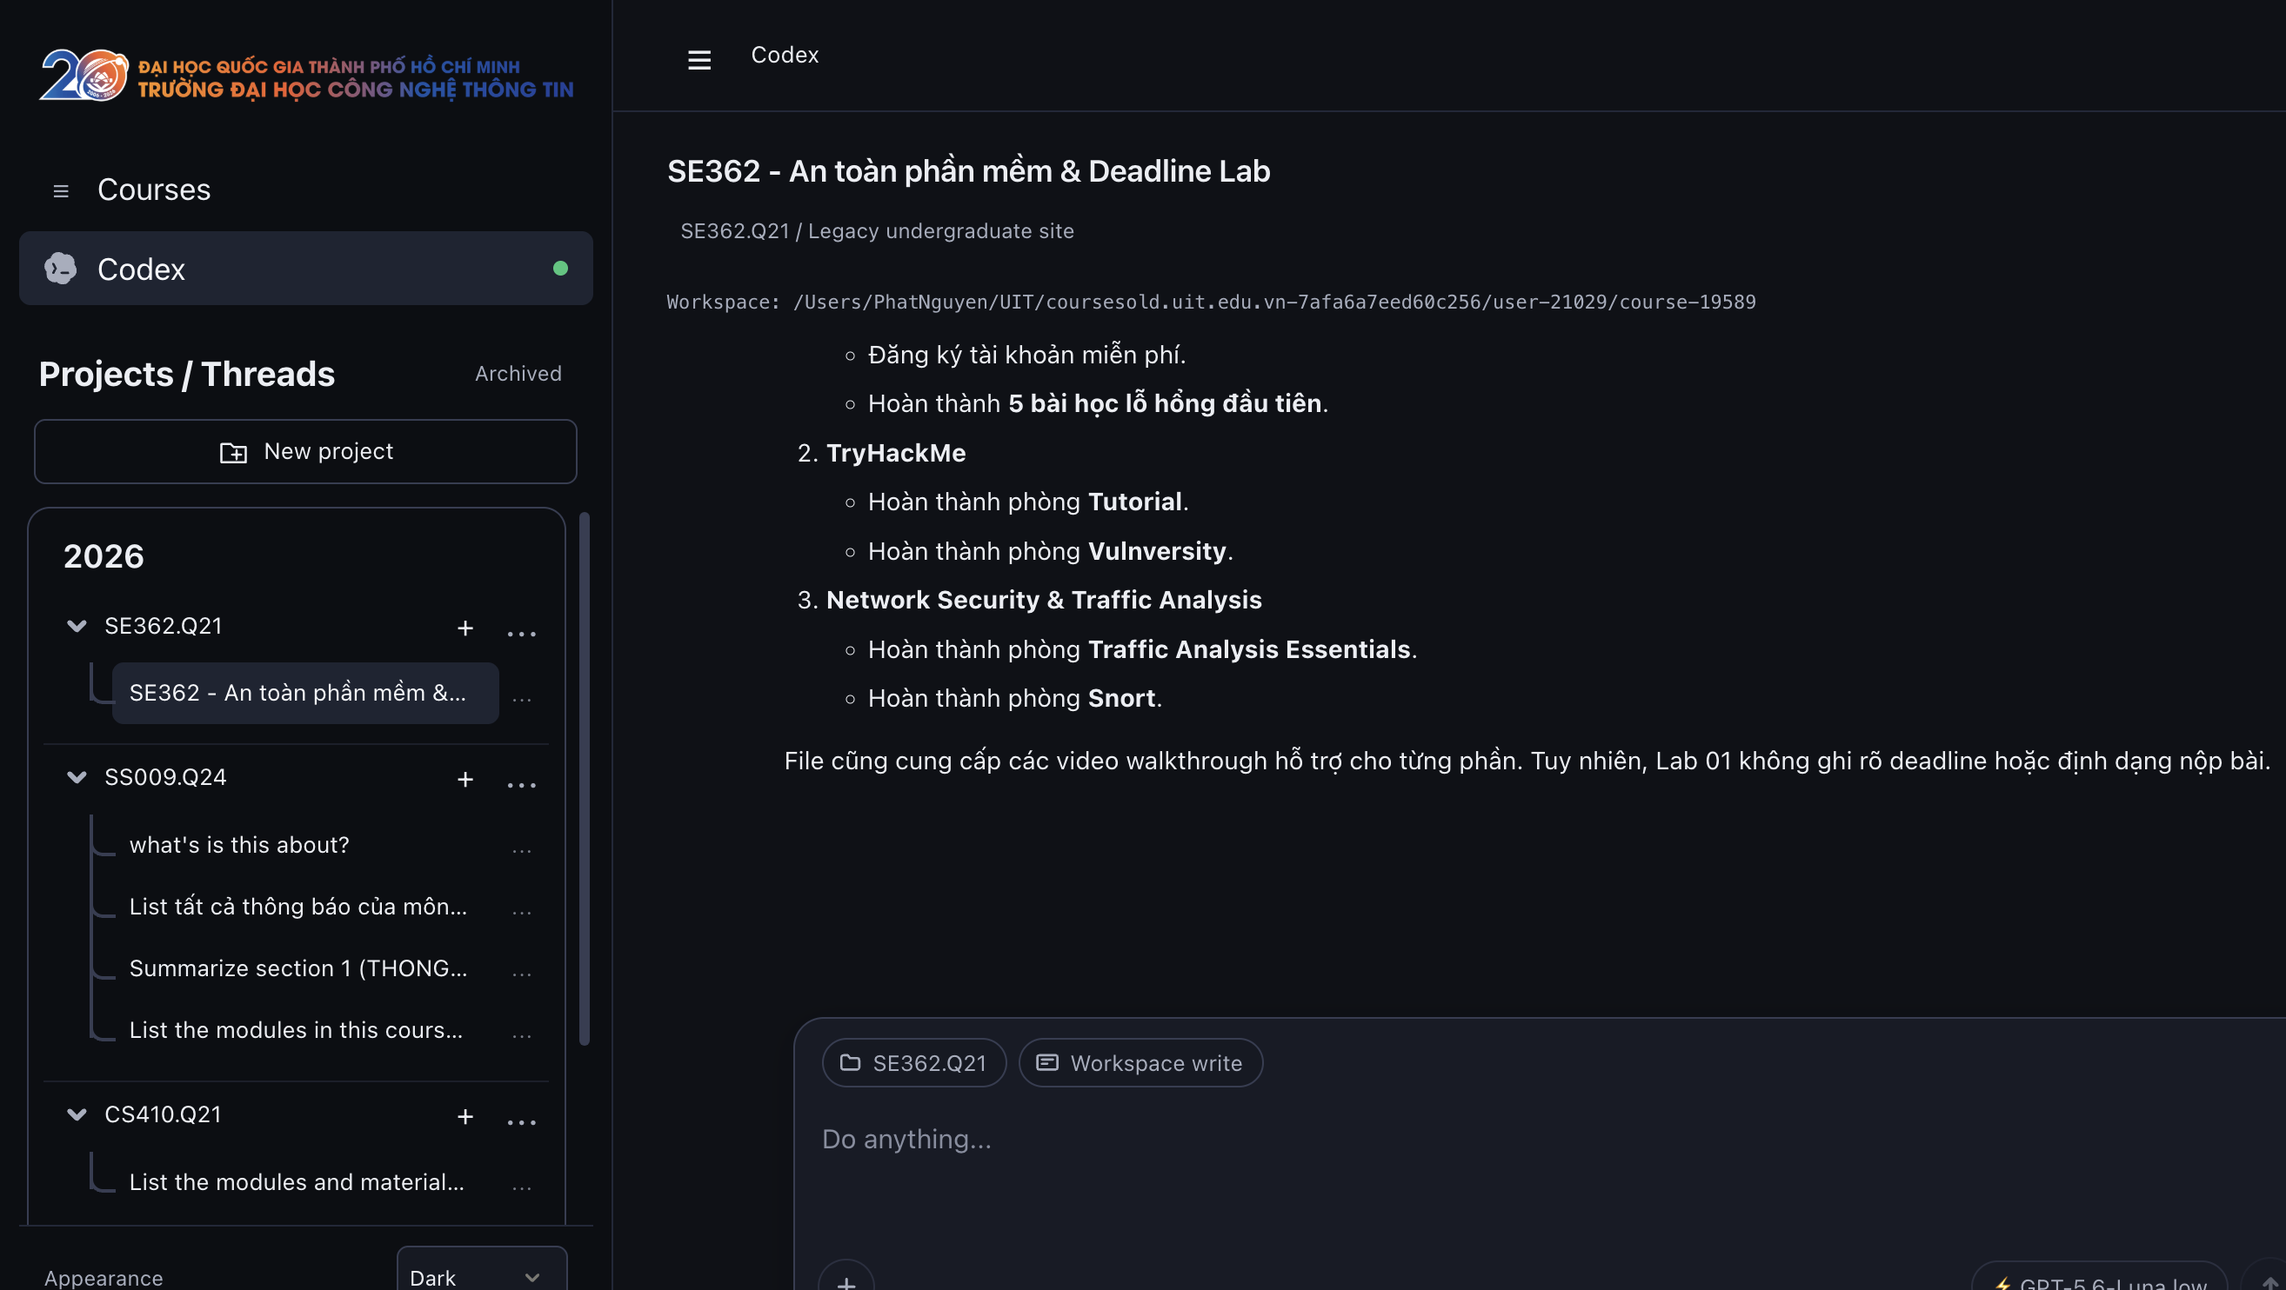
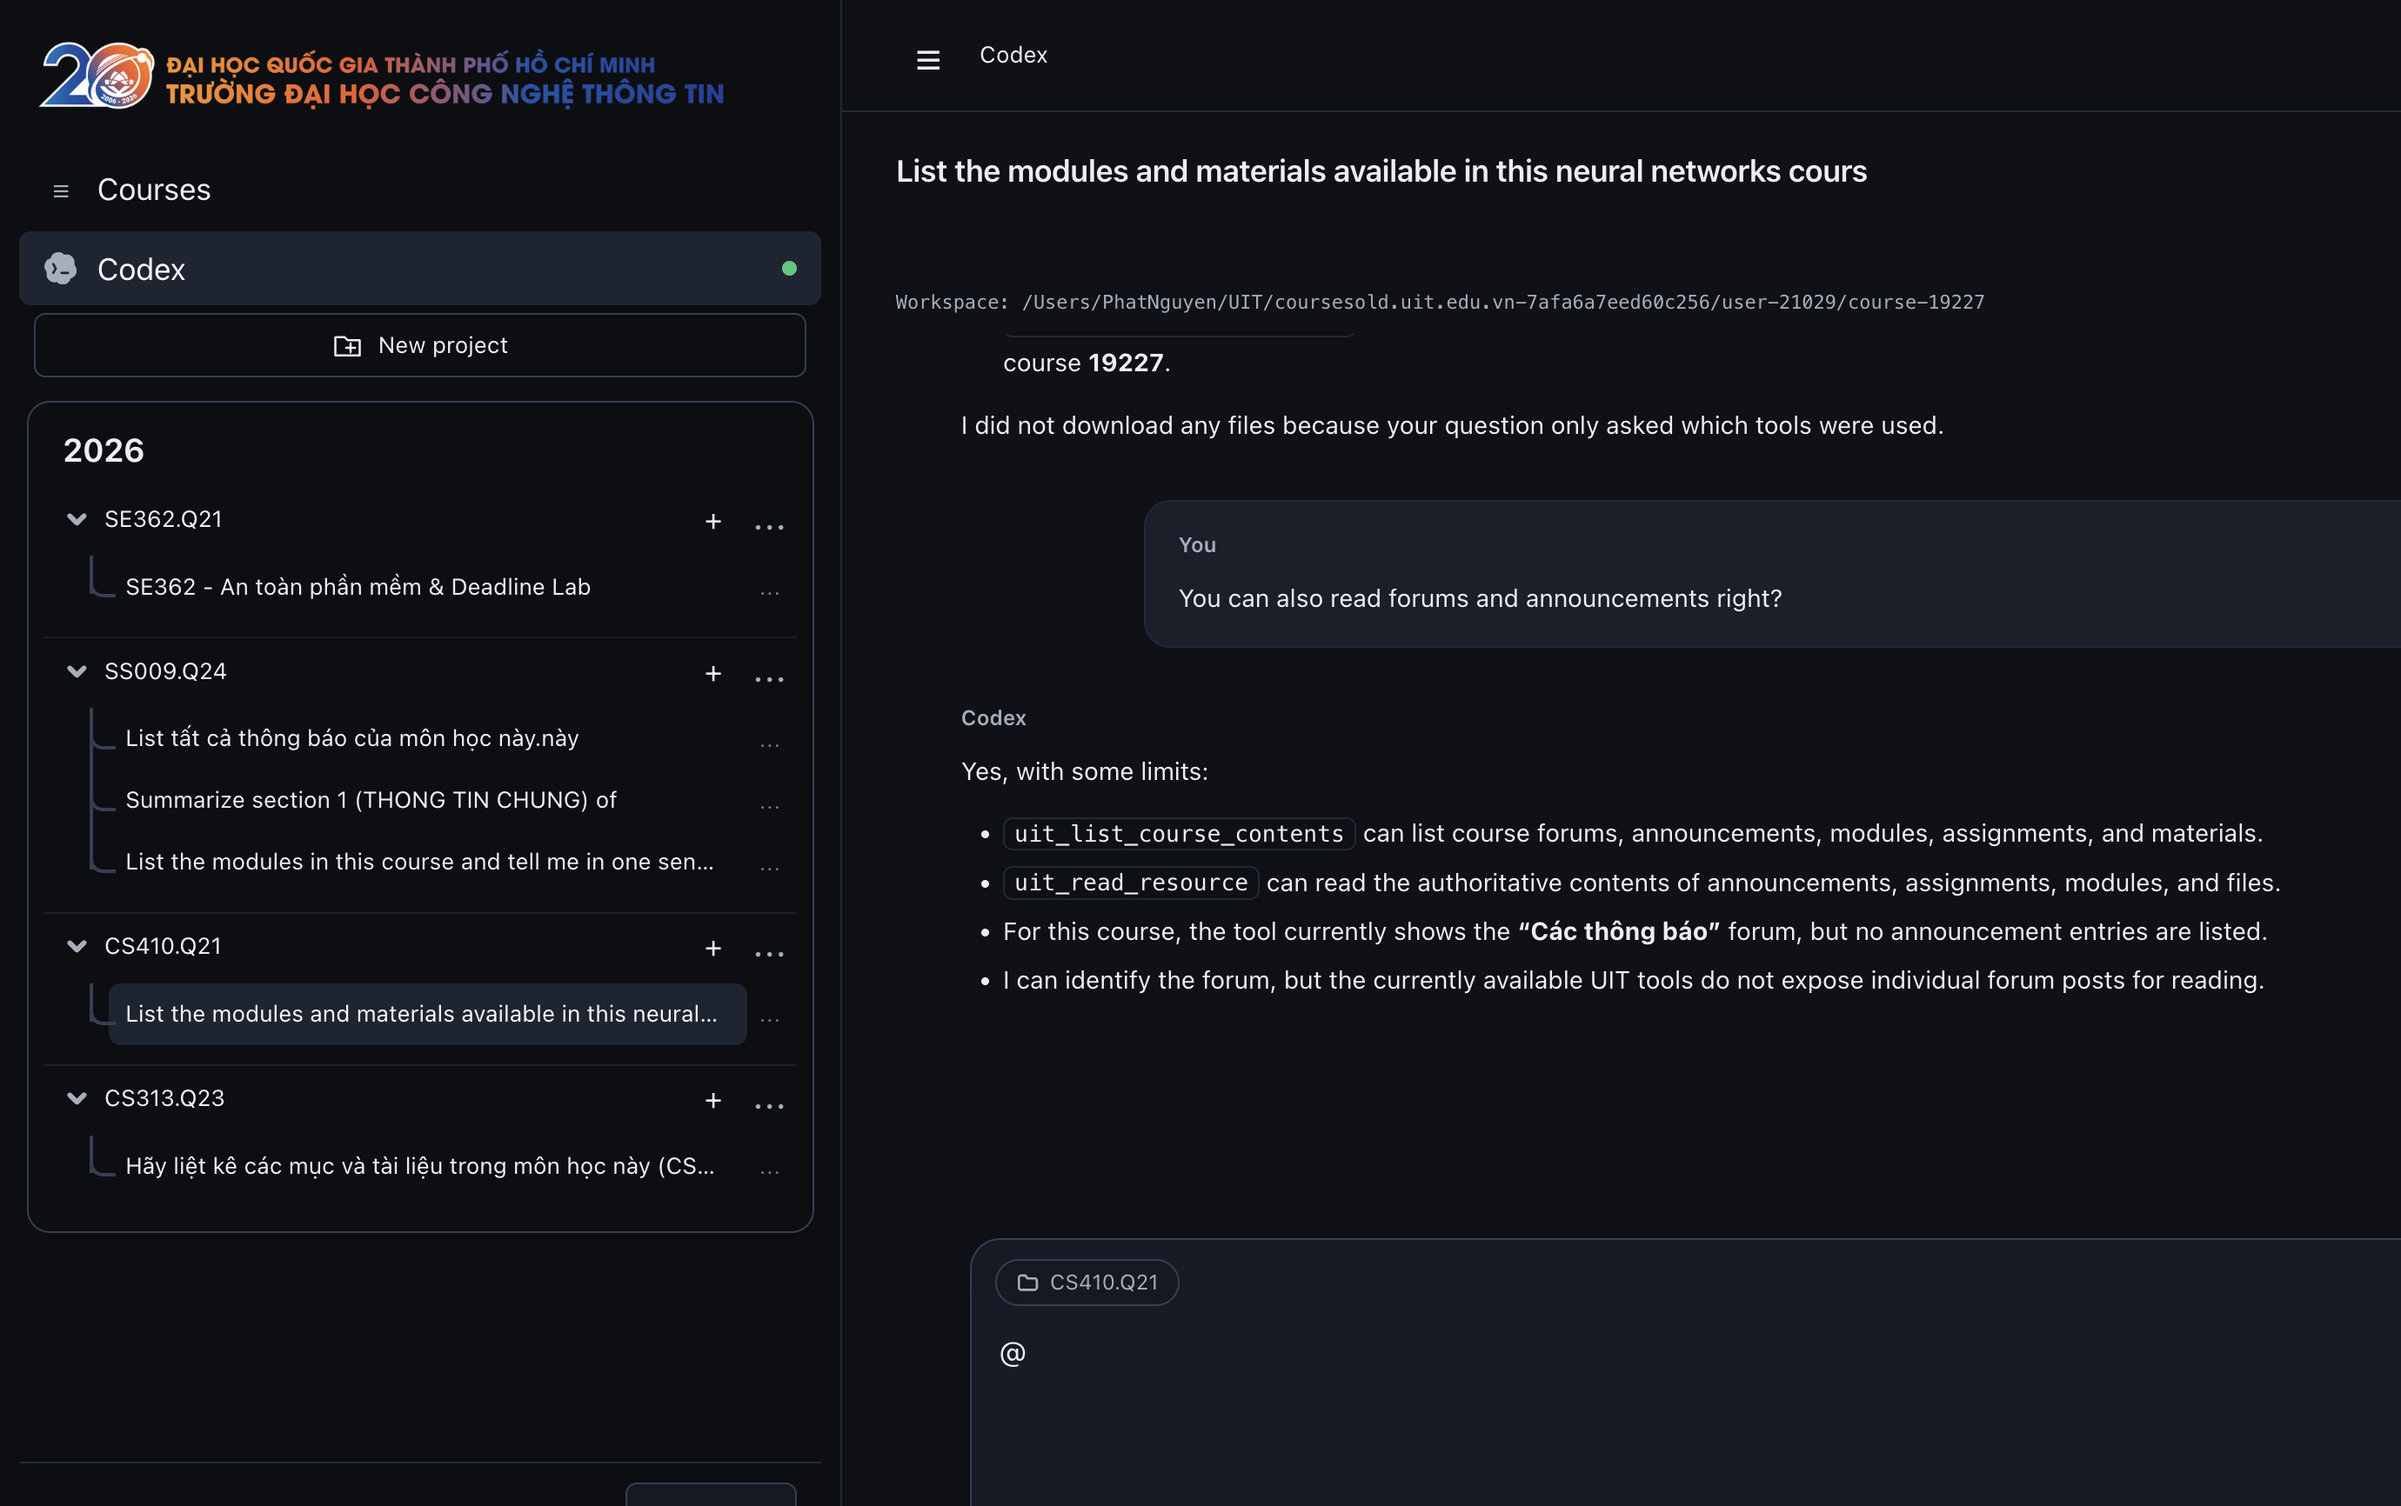
docs: refresh install matrix and repair npm release
Adds the concise install matrix and refreshed Studio screenshots, and repairs the partial npm release workflow with public access and idempotent publishing.

diff --git a/test/electron-stability.spec.ts b/test/electron-stability.spec.ts
@@ -81,7 +81,11 @@ test("one hidden Electron process survives an offline navigation and PDF soak", 
       let windowCount = initialWindows.length;
       initialWindows.forEach(watch);
       app.on("browser-window-created", (_event, window) => {
-        if (windowCount++ > 0) record("extra-window", { title: window.getTitle(), visible: window.isVisible() });
+        const detail = { title: window.getTitle(), visible: window.isVisible() };
+        // Electron can briefly create a hidden startup window on Linux/Xvfb.
+        // The heartbeat below still fails if an extra window remains alive;
+        // only visible or persistent windows are stability failures.
+        if (windowCount++ > 0 && detail.visible) record("extra-window", detail);
         watch(window);
       });
       const blockNetwork = (target: Electron.Session) => {

diff --git a/README.md b/README.md
@@ -8,32 +8,18 @@
 
 ---
 
+## Installation matrix
+
+| Product | npm | curl | Node requirement | Supported platforms |
+| :--- | :--- | :--- | :--- | :--- |
+| UIT CLI | `npm install -g uit-cli` | `curl -fsSL https://raw.githubusercontent.com/RyanNg1403/uit-cli/main/scripts/install.sh \| sh` | 20.19+ for npm; none for curl | npm: macOS, Linux, Windows · curl: macOS arm64, Linux x64/arm64 |
+| UIT Studio | `npm install -g uit-studio` then `uit-studio` | `curl -fsSL https://raw.githubusercontent.com/RyanNg1403/uit-cli/main/scripts/install.sh \| sh -s -- --studio` | 20.19+ for npm; none for curl | macOS arm64 (Apple Silicon) only |
+
+Install both npm packages together with `npm install -g uit-cli uit-studio`, or use `--all` with the curl installer on macOS arm64. The CLI includes the MCP server (`uit mcp`); Studio includes its MCP runtime internally.
+
 ## 1. UIT CLI
 
 Fast, scriptable terminal client for browsing courses, checking assignments, downloading materials, and tracking grades.
-
-### Installation
-
-On Apple Silicon macOS or Linux, install the standalone CLI and MCP server without Node.js:
-
-```bash
-curl -fsSL https://raw.githubusercontent.com/RyanNg1403/uit-cli/main/scripts/install.sh | sh
-```
-
-Alternatively, install from npm:
-
-```bash
-npm install -g uit-cli
-```
-
-The CLI package does not install the desktop app or a bundled Chromium browser. SSO opens an installed Google Chrome window; the CLI captures the session in its own controlled browser context. If you also want UIT Studio, install its separate npm package:
-
-```bash
-npm install -g uit-studio
-uit-studio
-```
-
-The standalone curl installer supports Apple Silicon macOS and Linux x64/arm64 without a preinstalled Node.js runtime. UIT CLI supports Node.js 20.19 or later when installed from npm (or on other Unix-like systems where the installer falls back to npm).
 
 To work from source instead:
 
@@ -78,25 +64,9 @@ uit login --token <your_token>
 
 The native desktop workspace combining Moodle course management with an intelligent Codex AI study copilot.
 
-### Installation & Launch
+### Launch
 
-UIT Studio is currently distributed for Apple Silicon Macs (arm64) only. The downloadable builds are unsigned to keep distribution free, so macOS may block the first launch. If it does, open **System Settings → Privacy & Security** and choose **Open Anyway** for UIT Studio.
-
-Install UIT Studio into `~/Applications` from the macOS release:
-
-```bash
-curl -fsSL https://raw.githubusercontent.com/RyanNg1403/uit-cli/main/scripts/install.sh | sh -s -- --studio
-```
-
-Install both UIT CLI and UIT Studio:
-
-```bash
-curl -fsSL https://raw.githubusercontent.com/RyanNg1403/uit-cli/main/scripts/install.sh | sh -s -- --all
-```
-
-The installer detects the Mac architecture and verifies the release archive's SHA-256 checksum. You can also download the unsigned DMG directly from the [latest GitHub release](https://github.com/RyanNg1403/uit-cli/releases/latest).
-
-For an npm-managed installation, use the dedicated Studio package instead:
+The npm package launches with `uit-studio`. The curl installer places the unsigned Apple Silicon app in `~/Applications` and verifies its SHA-256 checksum. If macOS blocks the first launch, use **System Settings → Privacy & Security → Open Anyway**. You can also download the [latest GitHub release](https://github.com/RyanNg1403/uit-cli/releases/latest).
 
 ```bash
 npm install -g uit-studio
